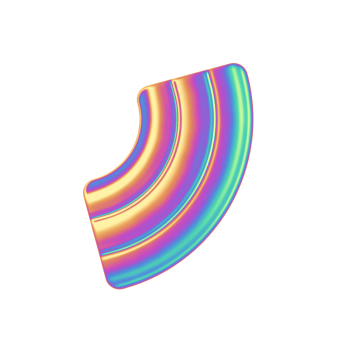
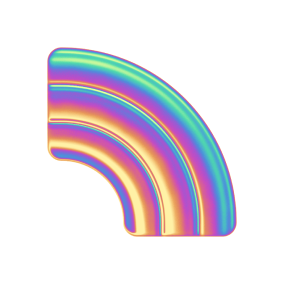
correct rainbow animations

diff --git a/src/entries/popup/components/FlyingRainbows/FlyingRainbows.tsx b/src/entries/popup/components/FlyingRainbows/FlyingRainbows.tsx
@@ -1,9 +1,4 @@
-import {
-  TargetAndTransition,
-  Transition,
-  motion,
-  useAnimationControls,
-} from 'framer-motion';
+import { Transition, motion, useAnimationControls } from 'framer-motion';
 import * as React from 'react';
 
 import rainbowLight from 'static/assets/rainbow/light-rainbow.png';
@@ -37,52 +32,52 @@ const RAINBOWS_POSITION: {
 } = {
   rainbowPixel: {
     unlock: {
-      right: '0px',
-      top: '0px',
+      left: '207.36px',
+      top: '-77px',
     },
     invite_code: {
-      right: '-15.64px',
-      top: '-79px',
+      left: '223px',
+      top: '-156px',
     },
   },
   rainbowWhite: {
     unlock: {
-      left: '0px',
-      top: '0px',
+      left: '-33.98px',
+      top: '-4.21px',
     },
     invite_code: {
-      left: '-58.66px',
-      top: '-45.44px',
+      left: '-92.64px',
+      top: '-49.64px',
     },
   },
   rainbowOg: {
     unlock: {
-      left: '0px',
-      top: '362px',
+      left: '-46.1px',
+      top: '378.17px',
     },
     invite_code: {
-      left: '-30px',
-      top: '392px',
+      left: '-76.1px',
+      top: '348.17px',
     },
   },
   rainbowLight: {
     unlock: {
-      left: '100px',
-      top: '370px',
+      left: '120.92px',
+      top: '385.78px',
     },
     invite_code: {
-      left: '4.89px',
-      top: '509.26px',
+      left: '16.03px',
+      top: '525.03px',
     },
   },
   rainbowNeon: {
     unlock: {
-      right: '-5px',
-      bottom: '0px',
+      left: '234.12px',
+      top: '549.4px',
     },
     invite_code: {
-      right: '-68.93px',
-      bottom: '-9.36px',
+      left: '298.05px',
+      top: '540.05px',
     },
   },
 };
@@ -92,37 +87,6 @@ const RAINBOW_TRANSITION: Transition = {
   stiffness: 100,
   damping: 15,
   mass: 1,
-};
-
-export const RAINBOWS_ANIMATION: {
-  [key in RainbowType]: {
-    [key in FlyingRainbowsScreen]: {
-      initial?: TargetAndTransition;
-      animate?: TargetAndTransition;
-      exit?: TargetAndTransition;
-    };
-  };
-} = {
-  rainbowPixel: {
-    unlock: {},
-    invite_code: {},
-  },
-  rainbowWhite: {
-    unlock: {},
-    invite_code: {},
-  },
-  rainbowOg: {
-    unlock: {},
-    invite_code: {},
-  },
-  rainbowLight: {
-    unlock: {},
-    invite_code: {},
-  },
-  rainbowNeon: {
-    unlock: {},
-    invite_code: {},
-  },
 };
 
 export function FlyingRainbows({
@@ -213,22 +177,12 @@ export function FlyingRainbows({
       >
         <Box
           as={motion.img}
-          src={rainbowPixel}
-          position="absolute"
-          style={{
-            width: '150px',
-            height: '150px',
-          }}
-          initial={RAINBOWS_POSITION.rainbowPixel[screen]}
-          animate={rainbowPixelControls}
-          transition={RAINBOW_TRANSITION}
-        />
-        <Box
-          as={motion.img}
           src={rainbowWhite}
           position="absolute"
           style={{
-            width: '171px',
+            width: '171.34px',
+            height: '171.34px',
+            rotate: '150deg',
           }}
           initial={RAINBOWS_POSITION.rainbowWhite[screen]}
           animate={rainbowWhiteControls}
@@ -236,10 +190,24 @@ export function FlyingRainbows({
         />
         <Box
           as={motion.img}
+          src={rainbowPixel}
+          position="absolute"
+          style={{
+            width: '225.17px',
+            height: '225.17px',
+          }}
+          initial={RAINBOWS_POSITION.rainbowPixel[screen]}
+          animate={rainbowPixelControls}
+          transition={RAINBOW_TRANSITION}
+        />
+        <Box
+          as={motion.img}
           src={rainbowOg}
           position="absolute"
           style={{
-            height: '130px',
+            height: '95.58px',
+            width: '95.58px',
+            rotate: '-33.07deg',
           }}
           initial={RAINBOWS_POSITION.rainbowOg[screen]}
           animate={rainbowOgControls}
@@ -250,7 +218,9 @@ export function FlyingRainbows({
           src={rainbowLight}
           position="absolute"
           style={{
-            width: '170px',
+            width: '142.69px',
+            height: '142.69px',
+            rotate: '75deg',
           }}
           initial={RAINBOWS_POSITION.rainbowLight[screen]}
           animate={rainbowLightControls}
@@ -261,7 +231,9 @@ export function FlyingRainbows({
           src={rainbowNeon}
           position="absolute"
           style={{
-            width: '155px',
+            width: '112.58px',
+            height: '112.58px',
+            rotate: '34.75deg',
           }}
           initial={RAINBOWS_POSITION.rainbowNeon[screen]}
           animate={rainbowNeonControls}
